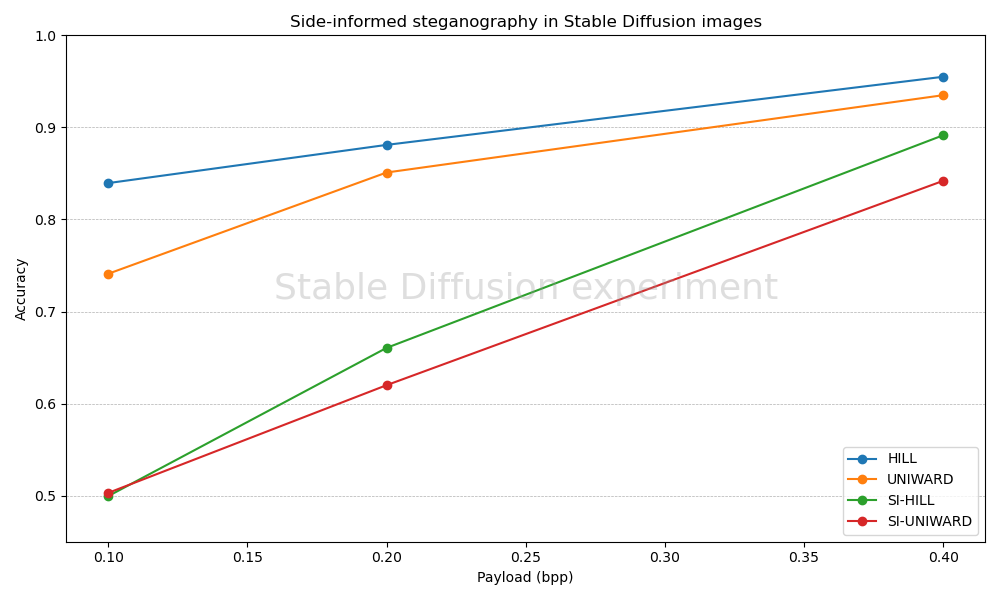
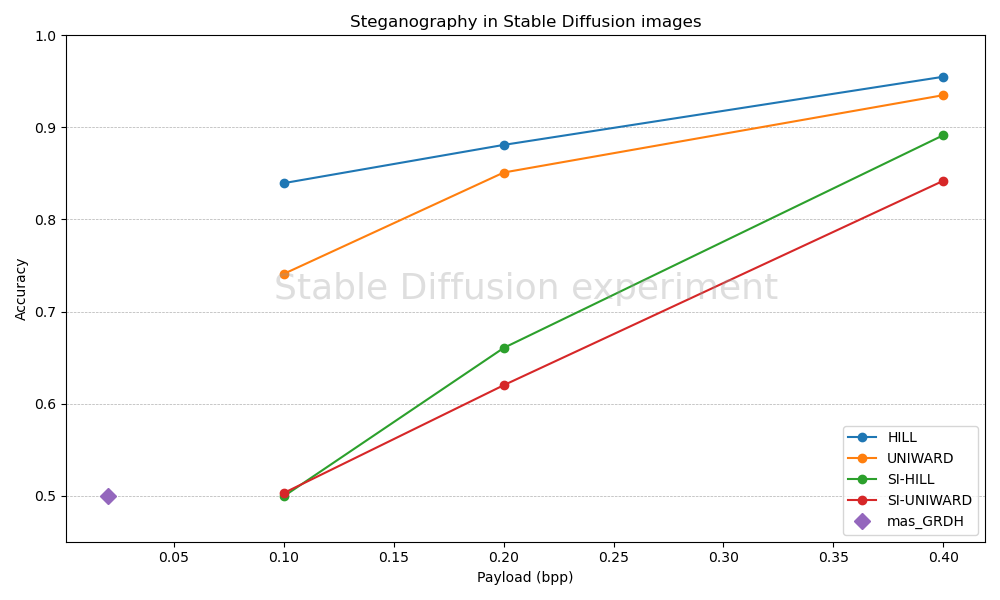
SD results

diff --git a/stego/plot-tools/stable-diffusion-side-informed.py b/stego/plot-tools/stable-diffusion-side-informed.py
@@ -10,6 +10,8 @@ hill = [0.8395, 0.8810, 0.9550]
 uniward = [0.7410, 0.8510, 0.9350]
 si_hill = [0.4995, 0.6605, 0.8915]
 si_uniward = [0.5030, 0.6200, 0.8420]
+stable_diffusion_generative_payload = [0.02]
+stable_diffusion_generative = [0.50]
 
 fig, ax1 = plt.subplots(figsize=(10, 6))
 
@@ -20,6 +22,14 @@ ax1.plot(payload, hill, marker="o", linestyle="-", label="HILL")
 ax1.plot(payload, uniward, marker="o", linestyle="-", label="UNIWARD")
 ax1.plot(payload, si_hill, marker="o", linestyle="-", label="SI-HILL")
 ax1.plot(payload, si_uniward, marker="o", linestyle="-", label="SI-UNIWARD")
+ax1.plot(
+    stable_diffusion_generative_payload,
+    stable_diffusion_generative,
+    marker="D",
+    markersize=8,
+    linestyle="None",
+    label="mas_GRDH",
+)
 
 ax1.tick_params(axis="y")
 ax1.grid(True, which="both", axis="y", linestyle="--", linewidth=0.5)
@@ -36,7 +46,7 @@ ax1.text(
 )
 
 plt.ylim(0.45, 1.0)
-plt.title("Side-informed steganography in Stable Diffusion images")
+plt.title("Steganography in Stable Diffusion images")
 plt.tight_layout()
 plt.legend(loc="lower right")
 plt.savefig("stego/aletheia/v03/resources/stable_diffusion_side_informed.png")

diff --git a/stegowatch-en.md b/stegowatch-en.md
@@ -119,27 +119,27 @@ The charts below are the quickest way to read the current comparison. They show 
 
 <div class="stegowatch-figure">
   <img src="/stego/aletheia/v03/resources/stable_diffusion_side_informed.png" alt="Comparison of conventional and side-informed steganography in Stable Diffusion images">
-  <div class="caption">Comparison of conventional and side-informed spatial steganography in Stable Diffusion generated images. Accuracy is averaged over EfficientNet-B0 and SRNet.</div>
+  <div class="caption">Comparison of steganography methods evaluated on Stable Diffusion generated images. HILL, UNIWARD, SI-HILL and SI-UNIWARD accuracy is averaged over EfficientNet-B0 and SRNet; the generative Stable Diffusion point is shown at 0.02 bpp with chance-level detection.</div>
 </div>
 
 ## Techniques and tools
 
 Many tools implement the same or closely related techniques. The table links each family to its note and gives a compact reading of the tools represented in the comparison. For a broader catalogue, see the [steganography tools list](/stego/intro/tools-en/).
 
-| Technique family | Software using this technique | Domain | Detection resistance |
+| Technique family | Domain | Software using this technique | Detection resistance |
 |---|---|---|---|
-| [Generative steganography](/stegowatch/generative-steganography-en/) | [SteganoGAN](https://github.com/DAI-Lab/SteganoGAN) | Uncompressed | <span class="stegowatch-rating stegowatch-rating-1" title="Very easy to detect"><span class="stegowatch-rating-bars" aria-hidden="true"><span></span><span></span><span></span><span></span><span></span></span><span class="stegowatch-rating-label">Very easy to detect</span></span> |
-| [LSB replacement](/stegowatch/lsb-replacement-en/) | [OpenStego](https://www.openstego.com), [OpenPuff](https://embeddedsw.net/OpenPuff_Steganography_Home.html) | Uncompressed | <span class="stegowatch-rating stegowatch-rating-4" title="Partially detectable"><span class="stegowatch-rating-bars" aria-hidden="true"><span></span><span></span><span></span><span></span><span></span></span><span class="stegowatch-rating-label">Partially detectable</span></span> |
-| [LSB matching](/stegowatch/lsb-matching-en/) | Research / experimental implementations | Uncompressed | <span class="stegowatch-rating stegowatch-rating-4" title="Partially detectable"><span class="stegowatch-rating-bars" aria-hidden="true"><span></span><span></span><span></span><span></span><span></span></span><span class="stegowatch-rating-label">Partially detectable</span></span> |
-| [HILL](/stegowatch/hill-en/) | [HStego < 0.4](https://github.com/daniellerch/hstego) | Uncompressed | <span class="stegowatch-rating stegowatch-rating-4" title="Partially detectable"><span class="stegowatch-rating-bars" aria-hidden="true"><span></span><span></span><span></span><span></span><span></span></span><span class="stegowatch-rating-label">Partially detectable</span></span> |
-| [S-UNIWARD](/stegowatch/s-uniward-en/) | [HStego 0.4](https://github.com/daniellerch/hstego) | Uncompressed | <span class="stegowatch-rating stegowatch-rating-5" title="Hard to detect"><span class="stegowatch-rating-bars" aria-hidden="true"><span></span><span></span><span></span><span></span><span></span></span><span class="stegowatch-rating-label">Hard to detect</span></span> |
-| [SI-HILL](/stegowatch/si-hill-en/) | Experimental implementation | Uncompressed (Stable Diffusion) | <span class="stegowatch-rating stegowatch-rating-5" title="Hard to detect"><span class="stegowatch-rating-bars" aria-hidden="true"><span></span><span></span><span></span><span></span><span></span></span><span class="stegowatch-rating-label">Hard to detect</span></span> |
-| [SI-UNIWARD](/stegowatch/si-uniward-en/) | Experimental implementation | Uncompressed (Stable Diffusion) | <span class="stegowatch-rating stegowatch-rating-5" title="Hard to detect"><span class="stegowatch-rating-bars" aria-hidden="true"><span></span><span></span><span></span><span></span><span></span></span><span class="stegowatch-rating-label">Hard to detect</span></span> |
-| [Older JPEG-domain methods](/stegowatch/jpeg-domain-en/) | [Outguess](https://github.com/daniellerch/stego-collection/tree/master/outguess) and others | JPEG | <span class="stegowatch-rating stegowatch-rating-1" title="Very easy to detect"><span class="stegowatch-rating-bars" aria-hidden="true"><span></span><span></span><span></span><span></span><span></span></span><span class="stegowatch-rating-label">Very easy to detect</span></span> |
-| [F5](/stegowatch/f5-en/) | [F5](https://github.com/daniellerch/stego-collection/tree/master/F5) | JPEG | <span class="stegowatch-rating stegowatch-rating-1" title="Very easy to detect"><span class="stegowatch-rating-bars" aria-hidden="true"><span></span><span></span><span></span><span></span><span></span></span><span class="stegowatch-rating-label">Very easy to detect</span></span> |
-| [Steghide](/stegowatch/steghide-en/) | [Steghide](https://steghide.sourceforge.net/index.php) | JPEG | <span class="stegowatch-rating stegowatch-rating-2" title="Easy to detect"><span class="stegowatch-rating-bars" aria-hidden="true"><span></span><span></span><span></span><span></span><span></span></span><span class="stegowatch-rating-label">Easy to detect</span></span> |
-| [J-UNIWARD](/stegowatch/j-uniward-en/) | [HStego < 0.4](https://github.com/daniellerch/hstego) | JPEG | <span class="stegowatch-rating stegowatch-rating-4" title="Partially detectable"><span class="stegowatch-rating-bars" aria-hidden="true"><span></span><span></span><span></span><span></span><span></span></span><span class="stegowatch-rating-label">Partially detectable</span></span> |
-| [J-UNIWARD + Cost Polarization](/stegowatch/j-uniward-cost-polarization-en/) | [HStego 0.4](https://github.com/daniellerch/hstego) | JPEG | <span class="stegowatch-rating stegowatch-rating-5" title="Hard to detect"><span class="stegowatch-rating-bars" aria-hidden="true"><span></span><span></span><span></span><span></span><span></span></span><span class="stegowatch-rating-label">Hard to detect</span></span> |
+|  [Generative steganography](/stegowatch/generative-steganography-en/) | Uncompressed | [SteganoGAN](https://github.com/DAI-Lab/SteganoGAN)<br>[mas_GRDH](https://ieeexplore.ieee.org/abstract/document/10637346) | <span class="stegowatch-rating stegowatch-rating-1" title="Very easy to detect"><span class="stegowatch-rating-bars" aria-hidden="true"><span></span><span></span><span></span><span></span><span></span></span><span class="stegowatch-rating-label">Very easy to detect</span></span><br><span class="stegowatch-rating stegowatch-rating-5" title="Hard to detect"><span class="stegowatch-rating-bars" aria-hidden="true"><span></span><span></span><span></span><span></span><span></span></span><span class="stegowatch-rating-label">Hard to detect</span></span>  |
+|  [LSB replacement](/stegowatch/lsb-replacement-en/) | Uncompressed | [OpenStego](https://www.openstego.com), [OpenPuff](https://embeddedsw.net/OpenPuff_Steganography_Home.html) | <span class="stegowatch-rating stegowatch-rating-4" title="Partially detectable"><span class="stegowatch-rating-bars" aria-hidden="true"><span></span><span></span><span></span><span></span><span></span></span><span class="stegowatch-rating-label">Partially detectable</span></span>  |
+|  [LSB matching](/stegowatch/lsb-matching-en/) | Uncompressed | Research / experimental implementations | <span class="stegowatch-rating stegowatch-rating-4" title="Partially detectable"><span class="stegowatch-rating-bars" aria-hidden="true"><span></span><span></span><span></span><span></span><span></span></span><span class="stegowatch-rating-label">Partially detectable</span></span>  |
+|  [HILL](/stegowatch/hill-en/) | Uncompressed | [HStego < 0.4](https://github.com/daniellerch/hstego) | <span class="stegowatch-rating stegowatch-rating-4" title="Partially detectable"><span class="stegowatch-rating-bars" aria-hidden="true"><span></span><span></span><span></span><span></span><span></span></span><span class="stegowatch-rating-label">Partially detectable</span></span>  |
+|  [S-UNIWARD](/stegowatch/s-uniward-en/) | Uncompressed | [HStego 0.4](https://github.com/daniellerch/hstego) | <span class="stegowatch-rating stegowatch-rating-5" title="Hard to detect"><span class="stegowatch-rating-bars" aria-hidden="true"><span></span><span></span><span></span><span></span><span></span></span><span class="stegowatch-rating-label">Hard to detect</span></span>  |
+|  [SI-HILL](/stegowatch/si-hill-en/) | Uncompressed (Stable Diffusion) | Experimental implementation | <span class="stegowatch-rating stegowatch-rating-5" title="Hard to detect"><span class="stegowatch-rating-bars" aria-hidden="true"><span></span><span></span><span></span><span></span><span></span></span><span class="stegowatch-rating-label">Hard to detect</span></span>  |
+|  [SI-UNIWARD](/stegowatch/si-uniward-en/) | Uncompressed (Stable Diffusion) | Experimental implementation | <span class="stegowatch-rating stegowatch-rating-5" title="Hard to detect"><span class="stegowatch-rating-bars" aria-hidden="true"><span></span><span></span><span></span><span></span><span></span></span><span class="stegowatch-rating-label">Hard to detect</span></span>  |
+|  [Older JPEG-domain methods](/stegowatch/jpeg-domain-en/) | JPEG | [Outguess](https://github.com/daniellerch/stego-collection/tree/master/outguess) and others | <span class="stegowatch-rating stegowatch-rating-1" title="Very easy to detect"><span class="stegowatch-rating-bars" aria-hidden="true"><span></span><span></span><span></span><span></span><span></span></span><span class="stegowatch-rating-label">Very easy to detect</span></span>  |
+|  [F5](/stegowatch/f5-en/) | JPEG | [F5](https://github.com/daniellerch/stego-collection/tree/master/F5) | <span class="stegowatch-rating stegowatch-rating-1" title="Very easy to detect"><span class="stegowatch-rating-bars" aria-hidden="true"><span></span><span></span><span></span><span></span><span></span></span><span class="stegowatch-rating-label">Very easy to detect</span></span>  |
+|  [Steghide](/stegowatch/steghide-en/) | JPEG | [Steghide](https://steghide.sourceforge.net/index.php) | <span class="stegowatch-rating stegowatch-rating-2" title="Easy to detect"><span class="stegowatch-rating-bars" aria-hidden="true"><span></span><span></span><span></span><span></span><span></span></span><span class="stegowatch-rating-label">Easy to detect</span></span>  |
+|  [J-UNIWARD](/stegowatch/j-uniward-en/) | JPEG | [HStego < 0.4](https://github.com/daniellerch/hstego) | <span class="stegowatch-rating stegowatch-rating-4" title="Partially detectable"><span class="stegowatch-rating-bars" aria-hidden="true"><span></span><span></span><span></span><span></span><span></span></span><span class="stegowatch-rating-label">Partially detectable</span></span>  |
+|  [J-UNIWARD + Cost Polarization](/stegowatch/j-uniward-cost-polarization-en/) | JPEG | [HStego 0.4](https://github.com/daniellerch/hstego) | <span class="stegowatch-rating stegowatch-rating-5" title="Hard to detect"><span class="stegowatch-rating-bars" aria-hidden="true"><span></span><span></span><span></span><span></span><span></span></span><span class="stegowatch-rating-label">Hard to detect</span></span>  |
 
 ## How to read these results
 

diff --git a/stegowatch-es.md b/stegowatch-es.md
@@ -119,27 +119,27 @@ Las gráficas siguientes son la forma más rápida de leer la comparativa actual
 
 <div class="stegowatch-figure">
   <img src="/stego/aletheia/v03/resources/stable_diffusion_side_informed.png" alt="Comparativa de esteganografía convencional y side-informed en imágenes de Stable Diffusion">
-  <div class="caption">Comparativa de esteganografía espacial convencional y side-informed en imágenes generadas con Stable Diffusion. La accuracy está promediada entre EfficientNet-B0 y SRNet.</div>
+  <div class="caption">Comparativa de métodos de esteganografía evaluados en imágenes generadas con Stable Diffusion. La accuracy de HILL, UNIWARD, SI-HILL y SI-UNIWARD está promediada entre EfficientNet-B0 y SRNet; el punto generativo con Stable Diffusion se muestra en 0.02 bpp con detección a nivel de azar.</div>
 </div>
 
 ## Técnicas y herramientas
 
 Muchas herramientas implementan las mismas técnicas, o técnicas muy cercanas. La tabla enlaza cada familia con su ficha y resume las herramientas representadas en la comparativa. Para un catálogo más amplio, consulta el [listado de herramientas de esteganografía](/stego/intro/tools-es/).
 
-| Familia técnica | Software que usa esta técnica | Dominio | Resistencia a detección |
+| Familia técnica | Dominio | Software que usa esta técnica | Resistencia a detección |
 |---|---|---|---|
-| [Esteganografía generativa](/stegowatch/generative-steganography-es/) | [SteganoGAN](https://github.com/DAI-Lab/SteganoGAN) | Sin comprimir | <span class="stegowatch-rating stegowatch-rating-1" title="Muy fácil de detectar"><span class="stegowatch-rating-bars" aria-hidden="true"><span></span><span></span><span></span><span></span><span></span></span><span class="stegowatch-rating-label">Muy fácil de detectar</span></span> |
-| [LSB replacement](/stegowatch/lsb-replacement-es/) | [OpenStego](https://www.openstego.com), [OpenPuff](https://embeddedsw.net/OpenPuff_Steganography_Home.html) | Sin comprimir | <span class="stegowatch-rating stegowatch-rating-4" title="Parcialmente detectable"><span class="stegowatch-rating-bars" aria-hidden="true"><span></span><span></span><span></span><span></span><span></span></span><span class="stegowatch-rating-label">Parcialmente detectable</span></span> |
-| [LSB matching](/stegowatch/lsb-matching-es/) | Implementaciones de investigación / experimentales | Sin comprimir | <span class="stegowatch-rating stegowatch-rating-4" title="Parcialmente detectable"><span class="stegowatch-rating-bars" aria-hidden="true"><span></span><span></span><span></span><span></span><span></span></span><span class="stegowatch-rating-label">Parcialmente detectable</span></span> |
-| [HILL](/stegowatch/hill-es/) | [HStego < 0.4](https://github.com/daniellerch/hstego) | Sin comprimir | <span class="stegowatch-rating stegowatch-rating-4" title="Parcialmente detectable"><span class="stegowatch-rating-bars" aria-hidden="true"><span></span><span></span><span></span><span></span><span></span></span><span class="stegowatch-rating-label">Parcialmente detectable</span></span> |
-| [S-UNIWARD](/stegowatch/s-uniward-es/) | [HStego 0.4](https://github.com/daniellerch/hstego) | Sin comprimir | <span class="stegowatch-rating stegowatch-rating-5" title="Difícil de detectar"><span class="stegowatch-rating-bars" aria-hidden="true"><span></span><span></span><span></span><span></span><span></span></span><span class="stegowatch-rating-label">Difícil de detectar</span></span> |
-| [SI-HILL](/stegowatch/si-hill-es/) | Implementación experimental | Sin comprimir (Stable Diffusion) | <span class="stegowatch-rating stegowatch-rating-5" title="Difícil de detectar"><span class="stegowatch-rating-bars" aria-hidden="true"><span></span><span></span><span></span><span></span><span></span></span><span class="stegowatch-rating-label">Difícil de detectar</span></span> |
-| [SI-UNIWARD](/stegowatch/si-uniward-es/) | Implementación experimental | Sin comprimir (Stable Diffusion) | <span class="stegowatch-rating stegowatch-rating-5" title="Difícil de detectar"><span class="stegowatch-rating-bars" aria-hidden="true"><span></span><span></span><span></span><span></span><span></span></span><span class="stegowatch-rating-label">Difícil de detectar</span></span> |
-| [Métodos clásicos en dominio JPEG](/stegowatch/jpeg-domain-es/) | [Outguess](https://github.com/daniellerch/stego-collection/tree/master/Outguess) y otros | JPEG | <span class="stegowatch-rating stegowatch-rating-1" title="Muy fácil de detectar"><span class="stegowatch-rating-bars" aria-hidden="true"><span></span><span></span><span></span><span></span><span></span></span><span class="stegowatch-rating-label">Muy fácil de detectar</span></span> |
-| [F5](/stegowatch/f5-es/) | [F5](https://github.com/daniellerch/stego-collection/tree/master/F5) | JPEG | <span class="stegowatch-rating stegowatch-rating-1" title="Muy fácil de detectar"><span class="stegowatch-rating-bars" aria-hidden="true"><span></span><span></span><span></span><span></span><span></span></span><span class="stegowatch-rating-label">Muy fácil de detectar</span></span> |
-| [Steghide](/stegowatch/steghide-es/) | [Steghide](https://steghide.sourceforge.net/index.php) | JPEG | <span class="stegowatch-rating stegowatch-rating-2" title="Fácil de detectar"><span class="stegowatch-rating-bars" aria-hidden="true"><span></span><span></span><span></span><span></span><span></span></span><span class="stegowatch-rating-label">Fácil de detectar</span></span> |
-| [J-UNIWARD](/stegowatch/j-uniward-es/) | [HStego < 0.4](https://github.com/daniellerch/hstego) | JPEG | <span class="stegowatch-rating stegowatch-rating-4" title="Parcialmente detectable"><span class="stegowatch-rating-bars" aria-hidden="true"><span></span><span></span><span></span><span></span><span></span></span><span class="stegowatch-rating-label">Parcialmente detectable</span></span> |
-| [J-UNIWARD + Cost Polarization](/stegowatch/j-uniward-cost-polarization-es/) | [HStego 0.4](https://github.com/daniellerch/hstego) | JPEG | <span class="stegowatch-rating stegowatch-rating-5" title="Difícil de detectar"><span class="stegowatch-rating-bars" aria-hidden="true"><span></span><span></span><span></span><span></span><span></span></span><span class="stegowatch-rating-label">Difícil de detectar</span></span> |
+|  [Esteganografía generativa](/stegowatch/generative-steganography-es/) | Sin comprimir | [SteganoGAN](https://github.com/DAI-Lab/SteganoGAN)<br>[mas_GRDH](https://ieeexplore.ieee.org/abstract/document/10637346) | <span class="stegowatch-rating stegowatch-rating-1" title="Muy fácil de detectar"><span class="stegowatch-rating-bars" aria-hidden="true"><span></span><span></span><span></span><span></span><span></span></span><span class="stegowatch-rating-label">Muy fácil de detectar</span></span><br><span class="stegowatch-rating stegowatch-rating-5" title="Difícil de detectar"><span class="stegowatch-rating-bars" aria-hidden="true"><span></span><span></span><span></span><span></span><span></span></span><span class="stegowatch-rating-label">Difícil de detectar</span></span>  |
+|  [LSB replacement](/stegowatch/lsb-replacement-es/) | Sin comprimir | [OpenStego](https://www.openstego.com), [OpenPuff](https://embeddedsw.net/OpenPuff_Steganography_Home.html) | <span class="stegowatch-rating stegowatch-rating-4" title="Parcialmente detectable"><span class="stegowatch-rating-bars" aria-hidden="true"><span></span><span></span><span></span><span></span><span></span></span><span class="stegowatch-rating-label">Parcialmente detectable</span></span>  |
+|  [LSB matching](/stegowatch/lsb-matching-es/) | Sin comprimir | Implementaciones de investigación / experimentales | <span class="stegowatch-rating stegowatch-rating-4" title="Parcialmente detectable"><span class="stegowatch-rating-bars" aria-hidden="true"><span></span><span></span><span></span><span></span><span></span></span><span class="stegowatch-rating-label">Parcialmente detectable</span></span>  |
+|  [HILL](/stegowatch/hill-es/) | Sin comprimir | [HStego < 0.4](https://github.com/daniellerch/hstego) | <span class="stegowatch-rating stegowatch-rating-4" title="Parcialmente detectable"><span class="stegowatch-rating-bars" aria-hidden="true"><span></span><span></span><span></span><span></span><span></span></span><span class="stegowatch-rating-label">Parcialmente detectable</span></span>  |
+|  [S-UNIWARD](/stegowatch/s-uniward-es/) | Sin comprimir | [HStego 0.4](https://github.com/daniellerch/hstego) | <span class="stegowatch-rating stegowatch-rating-5" title="Difícil de detectar"><span class="stegowatch-rating-bars" aria-hidden="true"><span></span><span></span><span></span><span></span><span></span></span><span class="stegowatch-rating-label">Difícil de detectar</span></span>  |
+|  [SI-HILL](/stegowatch/si-hill-es/) | Sin comprimir (Stable Diffusion) | Implementación experimental | <span class="stegowatch-rating stegowatch-rating-5" title="Difícil de detectar"><span class="stegowatch-rating-bars" aria-hidden="true"><span></span><span></span><span></span><span></span><span></span></span><span class="stegowatch-rating-label">Difícil de detectar</span></span>  |
+|  [SI-UNIWARD](/stegowatch/si-uniward-es/) | Sin comprimir (Stable Diffusion) | Implementación experimental | <span class="stegowatch-rating stegowatch-rating-5" title="Difícil de detectar"><span class="stegowatch-rating-bars" aria-hidden="true"><span></span><span></span><span></span><span></span><span></span></span><span class="stegowatch-rating-label">Difícil de detectar</span></span>  |
+|  [Métodos clásicos en dominio JPEG](/stegowatch/jpeg-domain-es/) | JPEG | [Outguess](https://github.com/daniellerch/stego-collection/tree/master/Outguess) y otros | <span class="stegowatch-rating stegowatch-rating-1" title="Muy fácil de detectar"><span class="stegowatch-rating-bars" aria-hidden="true"><span></span><span></span><span></span><span></span><span></span></span><span class="stegowatch-rating-label">Muy fácil de detectar</span></span>  |
+|  [F5](/stegowatch/f5-es/) | JPEG | [F5](https://github.com/daniellerch/stego-collection/tree/master/F5) | <span class="stegowatch-rating stegowatch-rating-1" title="Muy fácil de detectar"><span class="stegowatch-rating-bars" aria-hidden="true"><span></span><span></span><span></span><span></span><span></span></span><span class="stegowatch-rating-label">Muy fácil de detectar</span></span>  |
+|  [Steghide](/stegowatch/steghide-es/) | JPEG | [Steghide](https://steghide.sourceforge.net/index.php) | <span class="stegowatch-rating stegowatch-rating-2" title="Fácil de detectar"><span class="stegowatch-rating-bars" aria-hidden="true"><span></span><span></span><span></span><span></span><span></span></span><span class="stegowatch-rating-label">Fácil de detectar</span></span>  |
+|  [J-UNIWARD](/stegowatch/j-uniward-es/) | JPEG | [HStego < 0.4](https://github.com/daniellerch/hstego) | <span class="stegowatch-rating stegowatch-rating-4" title="Parcialmente detectable"><span class="stegowatch-rating-bars" aria-hidden="true"><span></span><span></span><span></span><span></span><span></span></span><span class="stegowatch-rating-label">Parcialmente detectable</span></span>  |
+|  [J-UNIWARD + Cost Polarization](/stegowatch/j-uniward-cost-polarization-es/) | JPEG | [HStego 0.4](https://github.com/daniellerch/hstego) | <span class="stegowatch-rating stegowatch-rating-5" title="Difícil de detectar"><span class="stegowatch-rating-bars" aria-hidden="true"><span></span><span></span><span></span><span></span><span></span></span><span class="stegowatch-rating-label">Difícil de detectar</span></span>  |
 
 ## Cómo leer estos resultados
 

diff --git a/stegowatch/generative-steganography-en.md b/stegowatch/generative-steganography-en.md
@@ -4,7 +4,7 @@ title: Generative Steganography
 subtitle: ""
 noindex: false
 meta-title: "Generative Steganography — StegoWatch"
-meta-description: "StegoWatch note on generative image steganography and SteganoGAN detectability"
+meta-description: "StegoWatch note on generative image steganography, SteganoGAN, and Stable Diffusion based methods"
 lang-suffix: "-en"
 comments: false
 ---
@@ -16,33 +16,35 @@ comments: false
     }
 </style>
 
-Generative steganography uses generative models to create images that carry hidden information. SteganoGAN is the representative example in the current StegoWatch comparison.
+Generative steganography uses generative models to create images that carry hidden information. In StegoWatch, this family includes both earlier GAN-based approaches, such as SteganoGAN, and more recent methods based on diffusion models.
 
 ## Why it matters
 
 Generative approaches are conceptually different from classical embedding methods. Instead of modifying an existing cover image, they can generate an image as part of the hiding process.
 
-This changes the detection problem. A detector may learn differences between generated and natural images rather than traces caused only by the hidden message.
+This changes the detection problem. A detector may learn differences between generated and natural images rather than traces caused only by the hidden message. Diffusion-based approaches are especially relevant because they can use high-quality image generators such as Stable Diffusion.
 
-## Typical tools
+## Typical tools and methods
 
 The current comparison includes:
 
-- SteganoGAN.
+- SteganoGAN;
+- mas_GRDH, a Stable Diffusion based generative steganography method described in the IEEE paper linked below.
 
 ## Detectability results
 
-In the current comparison, SteganoGAN is highly detectable across the evaluated payloads.
+In the Aletheia comparison, SteganoGAN is highly detectable across the evaluated payloads. This result should be read carefully: for SteganoGAN, high detectability may reflect artifacts of the generation process itself, not only the presence of embedded information.
 
-This result should be read carefully. High detectability may reflect artifacts of the generation process itself, not only the presence of embedded information.
+mas_GRDH is represented separately in the Stable Diffusion chart with one point at 0.02 bpp and accuracy 0.50, corresponding to chance-level detection in the reported setting.
 
 ## Limitations
 
-The results does not fully answer the broader question of detecting hidden messages in generated images. It mainly shows that the evaluated SteganoGAN outputs were distinguishable in the tested setting.
+The results do not fully answer the broader question of detecting hidden messages in generated images. They describe specific methods, payloads, generators, and evaluation protocols.
 
-## Reference paper
+## Reference papers
 
 - [SteganoGAN: High Capacity Image Steganography with GANs](https://arxiv.org/abs/1901.03892).
+- [IEEE Xplore: mas_GRDH](https://ieeexplore.ieee.org/abstract/document/10637346).
 
 ## Related resources
 

diff --git a/stegowatch/generative-steganography-es.md b/stegowatch/generative-steganography-es.md
@@ -4,7 +4,7 @@ title: Esteganografía generativa
 subtitle: ""
 noindex: false
 meta-title: "Esteganografía generativa — StegoWatch"
-meta-description: "Ficha StegoWatch sobre esteganografía generativa y detectabilidad de SteganoGAN"
+meta-description: "Ficha StegoWatch sobre esteganografía generativa, SteganoGAN y métodos basados en Stable Diffusion"
 lang-suffix: "-es"
 comments: false
 ---
@@ -16,33 +16,35 @@ comments: false
     }
 </style>
 
-La esteganografía generativa utiliza modelos generativos para crear imágenes que contienen información oculta. SteganoGAN es el ejemplo representado en la comparativa actual de StegoWatch.
+La esteganografía generativa utiliza modelos generativos para crear imágenes que contienen información oculta. En StegoWatch, esta familia incluye tanto enfoques anteriores basados en GAN, como SteganoGAN, como métodos más recientes basados en modelos de difusión.
 
 ## Por qué importa
 
 Los enfoques generativos son conceptualmente distintos de los métodos clásicos de incrustación. En lugar de modificar una imagen portadora existente, pueden generar una imagen como parte del proceso de ocultación.
 
-Esto cambia el problema de detección. Un detector puede aprender diferencias entre imágenes generadas e imágenes naturales, y no únicamente trazas causadas por el mensaje oculto.
+Esto cambia el problema de detección. Un detector puede aprender diferencias entre imágenes generadas e imágenes naturales, y no únicamente trazas causadas por el mensaje oculto. Los enfoques basados en difusión son especialmente relevantes porque pueden utilizar generadores de alta calidad como Stable Diffusion.
 
-## Herramientas típicas
+## Herramientas y métodos típicos
 
 La comparativa actual incluye:
 
-- SteganoGAN.
+- SteganoGAN;
+- mas_GRDH, un método de esteganografía generativa basado en Stable Diffusion descrito en el paper de IEEE enlazado más abajo.
 
 ## Resultados de detectabilidad
 
-En la comparativa actual, SteganoGAN resulta altamente detectable en las cargas evaluadas.
+En la comparativa de Aletheia, SteganoGAN resulta altamente detectable en las cargas evaluadas. Este resultado debe leerse con cuidado: en SteganoGAN, la alta detectabilidad puede reflejar artefactos del propio proceso de generación, no sólo la presencia de información incrustada.
 
-Este resultado debe leerse con cuidado. La alta detectabilidad puede reflejar artefactos del propio proceso de generación, no sólo la presencia de información incrustada.
+mas_GRDH se representa por separado en la gráfica de Stable Diffusion con un punto en 0.02 bpp y accuracy 0.50, correspondiente a detección a nivel de azar en el escenario reportado.
 
 ## Limitaciones
 
-La resultados no responde por completo a la cuestión más general de detectar mensajes ocultos en imágenes generadas. Principalmente muestra que las salidas evaluadas de SteganoGAN eran distinguibles en el escenario probado.
+Los resultados no responden por completo a la cuestión más general de detectar mensajes ocultos en imágenes generadas. Describen métodos, cargas, generadores y protocolos de evaluación concretos.
 
-## Paper de referencia
+## Papers de referencia
 
 - [SteganoGAN: High Capacity Image Steganography with GANs](https://arxiv.org/abs/1901.03892).
+- [IEEE Xplore: mas_GRDH](https://ieeexplore.ieee.org/abstract/document/10637346).
 
 ## Recursos relacionados
 